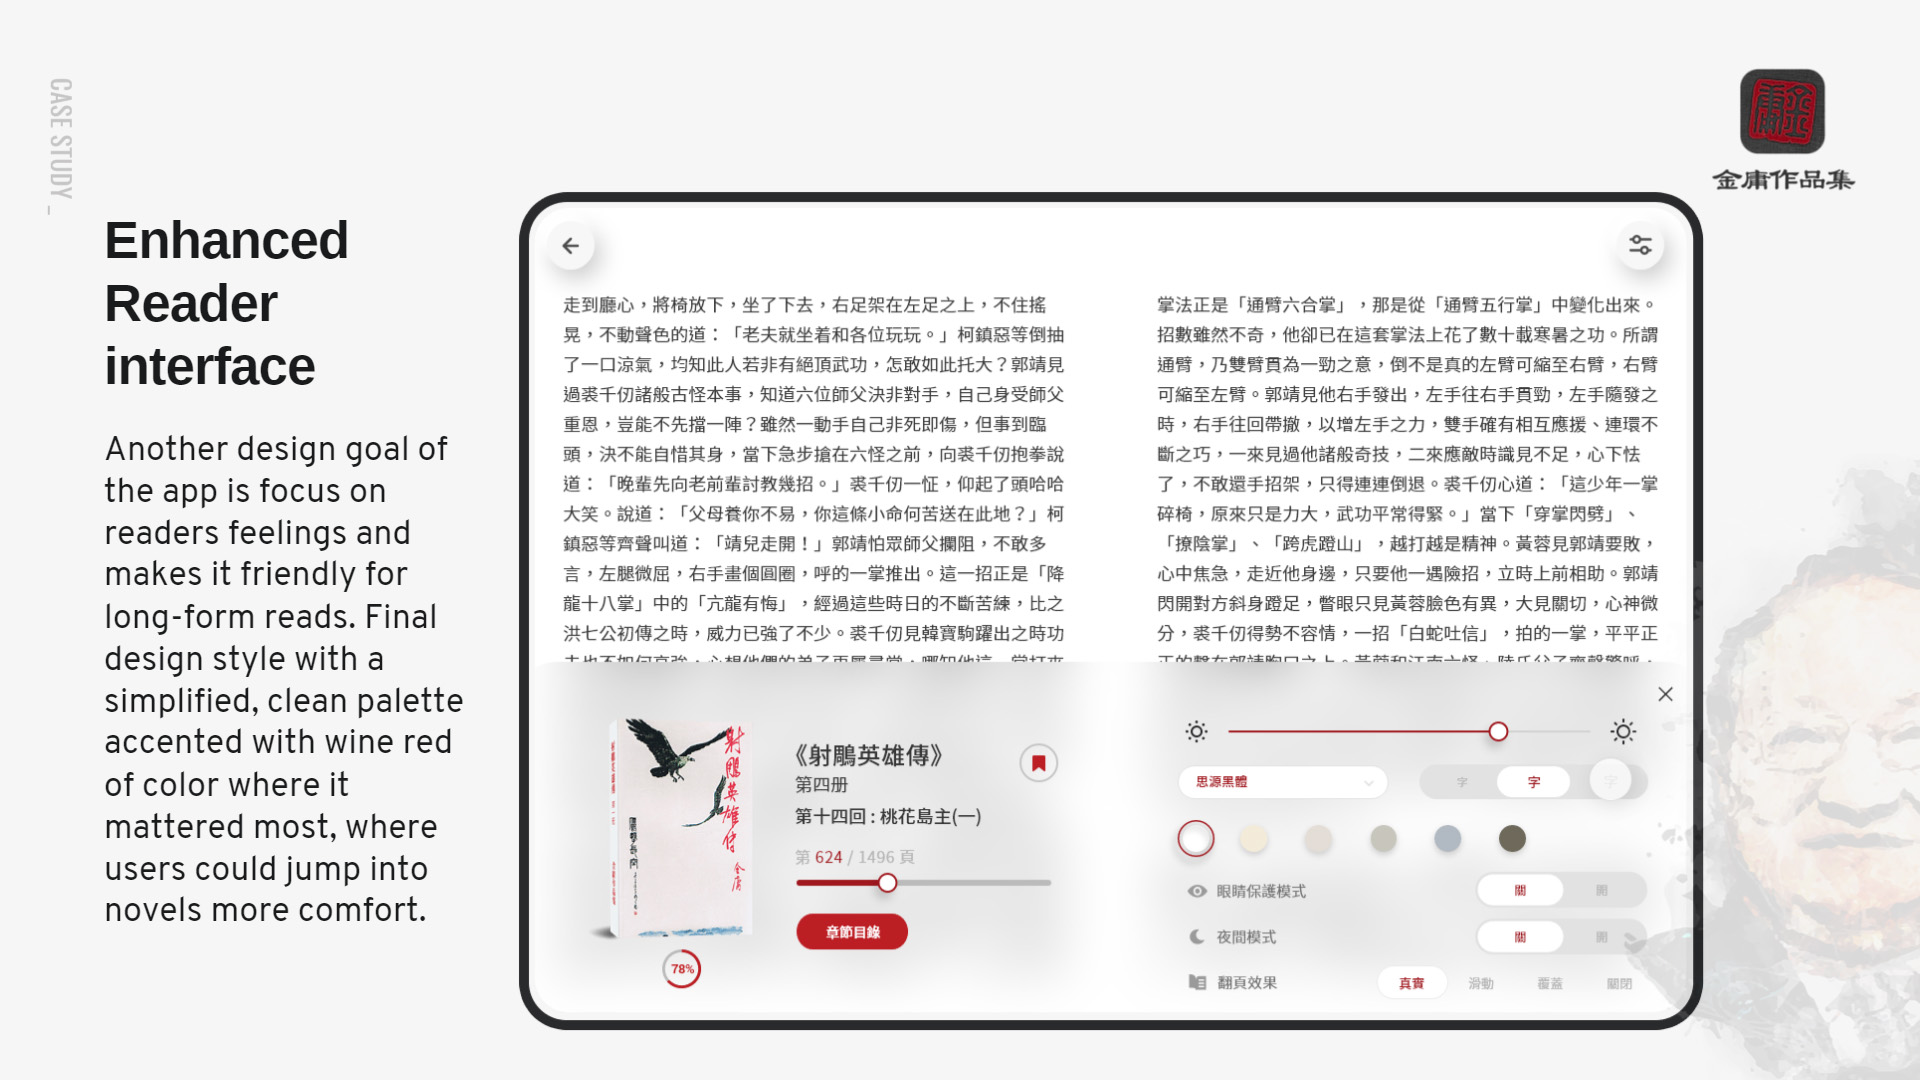
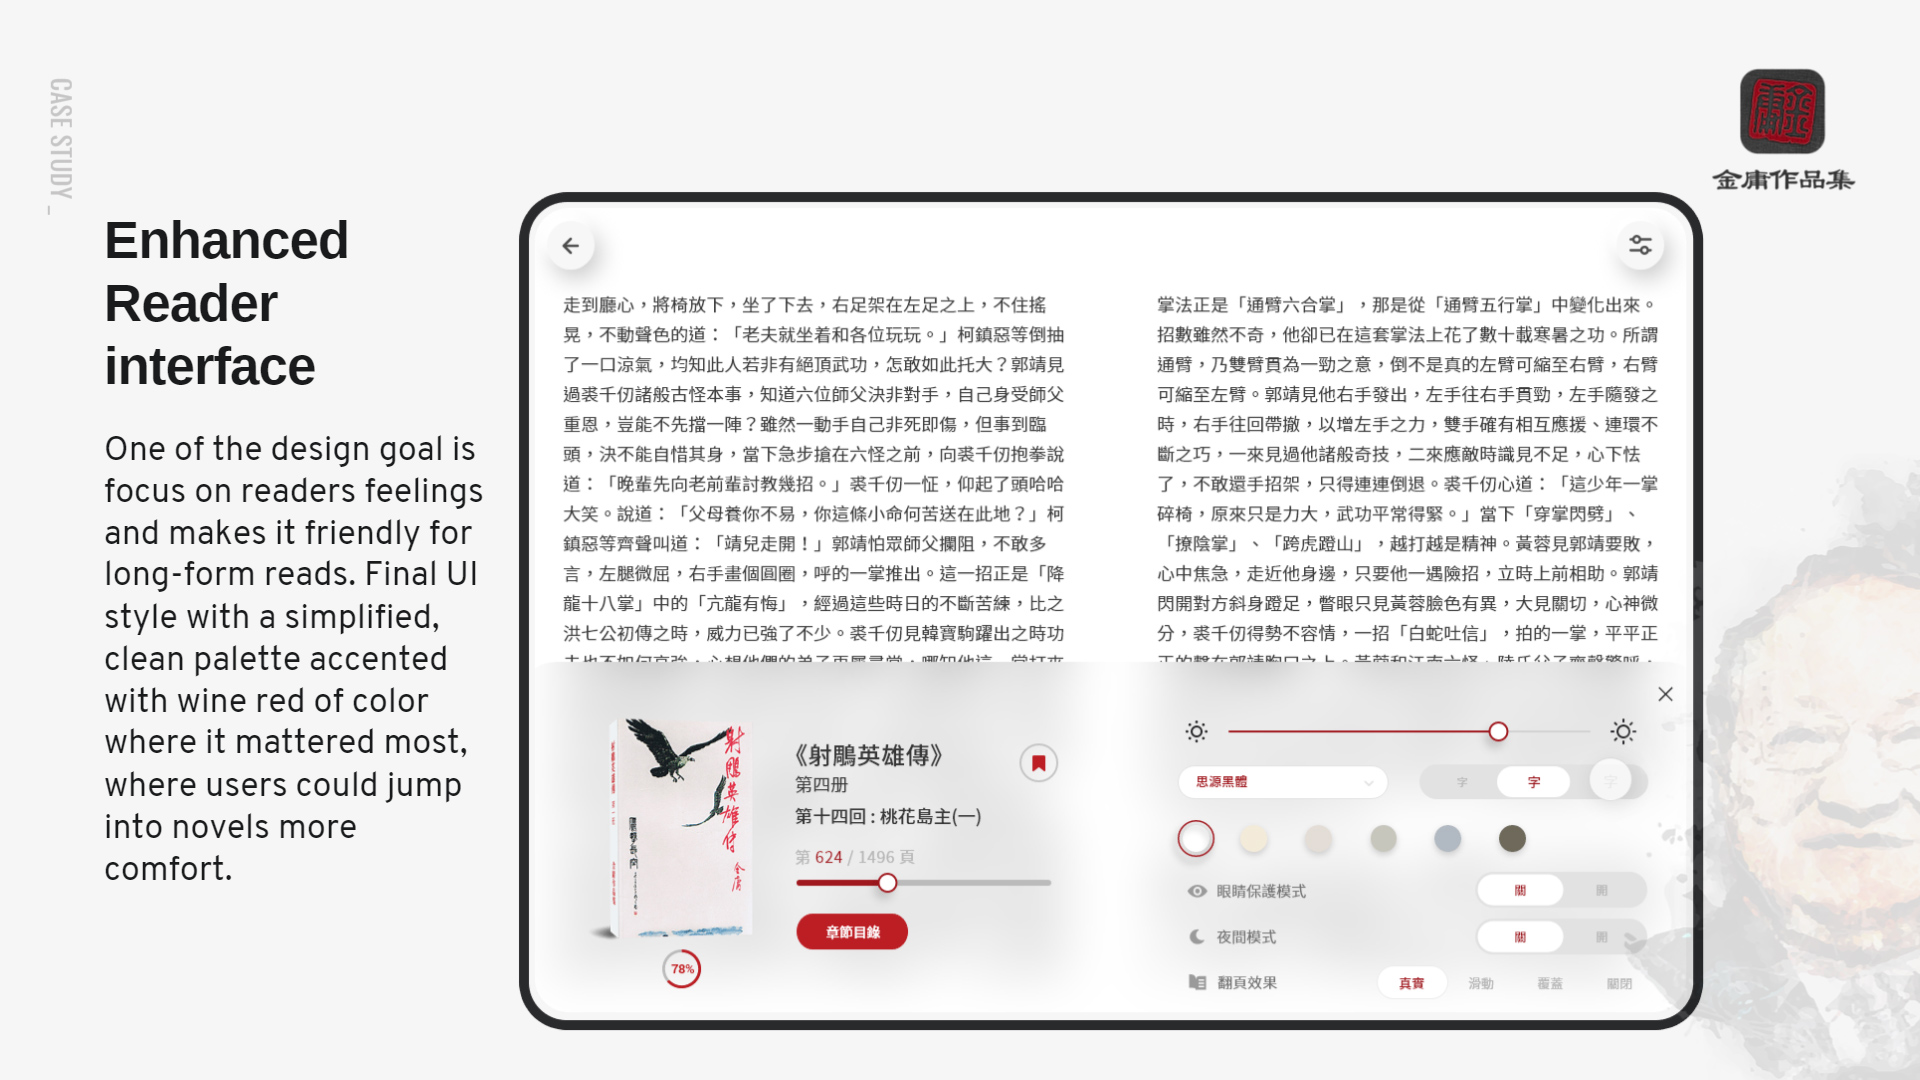
210223_01

Changed region(s): [[0.0312, 0.3972, 0.25, 0.8556]]

diff --git a/project/jy_reader.html b/project/jy_reader.html
@@ -672,7 +672,7 @@
       <p class="observable h1 spacing-title">More engage audience by novels value-added content and interface</p>
       <p class="observable body spacing-small">As prototyping shown, This new section contains Jin-Yong’s novels well-known characters, variety of martial arts knowledge allow users interact with. These give the user fun experience more rewarding so that better conveys of Jin-Yong’s theme-bookstore image, and learn more about the Jin-Yong’s novels behind it. <span class="material-icons m-icons-position" style="font-size:12pt;">open_in_new</span> <a class="image-popup-fit-width underlined" title="Click on image to enlarge/reduce it"  href="../images/projects/jinyong_bookstore/value_content.gif">Detail</a></p>
 
-      <p class="observable body spacing-large">Another design goal of the app is focus on readers feelings. Final design style with a simplified, clean palette accented with wine red of color where it mattered most, where users could jump into novels more comfort.<span class="material-icons m-icons-position" style="font-size:12pt;">open_in_new</span> <a class="image-popup-fit-width underlined" title="Click on image to enlarge/reduce it"  href="../images/projects/jinyong_bookstore/ups.jpg">Detail</a></p>
+      <p class="observable body spacing-large">One of the design goal is focus on readers feelings and makes it friendly for long-form reads. Final UI style with a simplified, clean palette accented with wine red of color where it mattered most, where users could jump into novels more comfort.<span class="material-icons m-icons-position" style="font-size:12pt;">open_in_new</span> <a class="image-popup-fit-width underlined" title="Click on image to enlarge/reduce it"  href="../images/projects/jinyong_bookstore/ups.jpg">Detail</a></p>
     </div>
 
     <!--<div class="copy-width spacing-large">Add Checkout screen</div>-->

diff --git a/jinyong_case_study.html b/jinyong_case_study.html
@@ -651,21 +651,21 @@ body, .body {
 
 
 
-        <p class=" h1 spacing-small">第3個 Demo展示, 新加左嘅互動內容, 更吸引讀者, 可以睇下Demo</p>
+        <p class=" h1 spacing-small">第3個 Demo展示, 新加左嘅互動內容, UI, 可以更吸引讀者</p>
 
         <p class=" body h1 spacing-copy">Demo解說: Play and Pause </p>
 
         <p class=" body spacing-small">互動內容有2個部份, Click入去 煮酒 section, 可以睇到 金庸小說裡面人物相關信息。 ..........Click入去 論劍, 會睇到武功相關信息。<br><br>
 
-        ******總結: 更好地傳達金庸主題書店形象, 令體驗更加有價值, 同埋有趣, 更加好去 連結武俠小說讀者。</p>
+        ******總結: 更好地傳達金庸主題書店形象, 令體驗更加有價值, 連結武俠小說讀者。</p>
 
         <p class=" body spacing-large">(下一頁 Slide.....)</p>
 
 
-        <p class=" h1 spacing-small">強化左 UI</p>
+        <p class=" h1 spacing-small">UI設計</p>
 
-        <p class=" body spacing-small">呢度係睇小說地方, 裡面嘅閱讀設定。 例如有字體、大小、顏色、夜間模式、翻頁效果。 </p>
-        <!--<p class=" body spacing-small">呢度係睇小說地方, 有個快速滑動Button, 係1個跳頁功能, 垃動時, 會顯示拉到邊一頁。 <br><br>-->
+        <p class=" body spacing-small">呢度係小說閱讀設定界面, 乾淨清折, Blur左透明白加酒紅色</p>
+        <!--<p class=" body spacing-small">呢度係睇小說地方, 有個快速滑動Button, 係1個跳頁功能, 垃動時, 會顯示拉到邊一頁。 例如有字體、大小、顏色、夜間模式、翻頁效果。 <br><br>-->
 
         <p class=" body spacing-large">(下一頁 Slide.....)</p>
 
